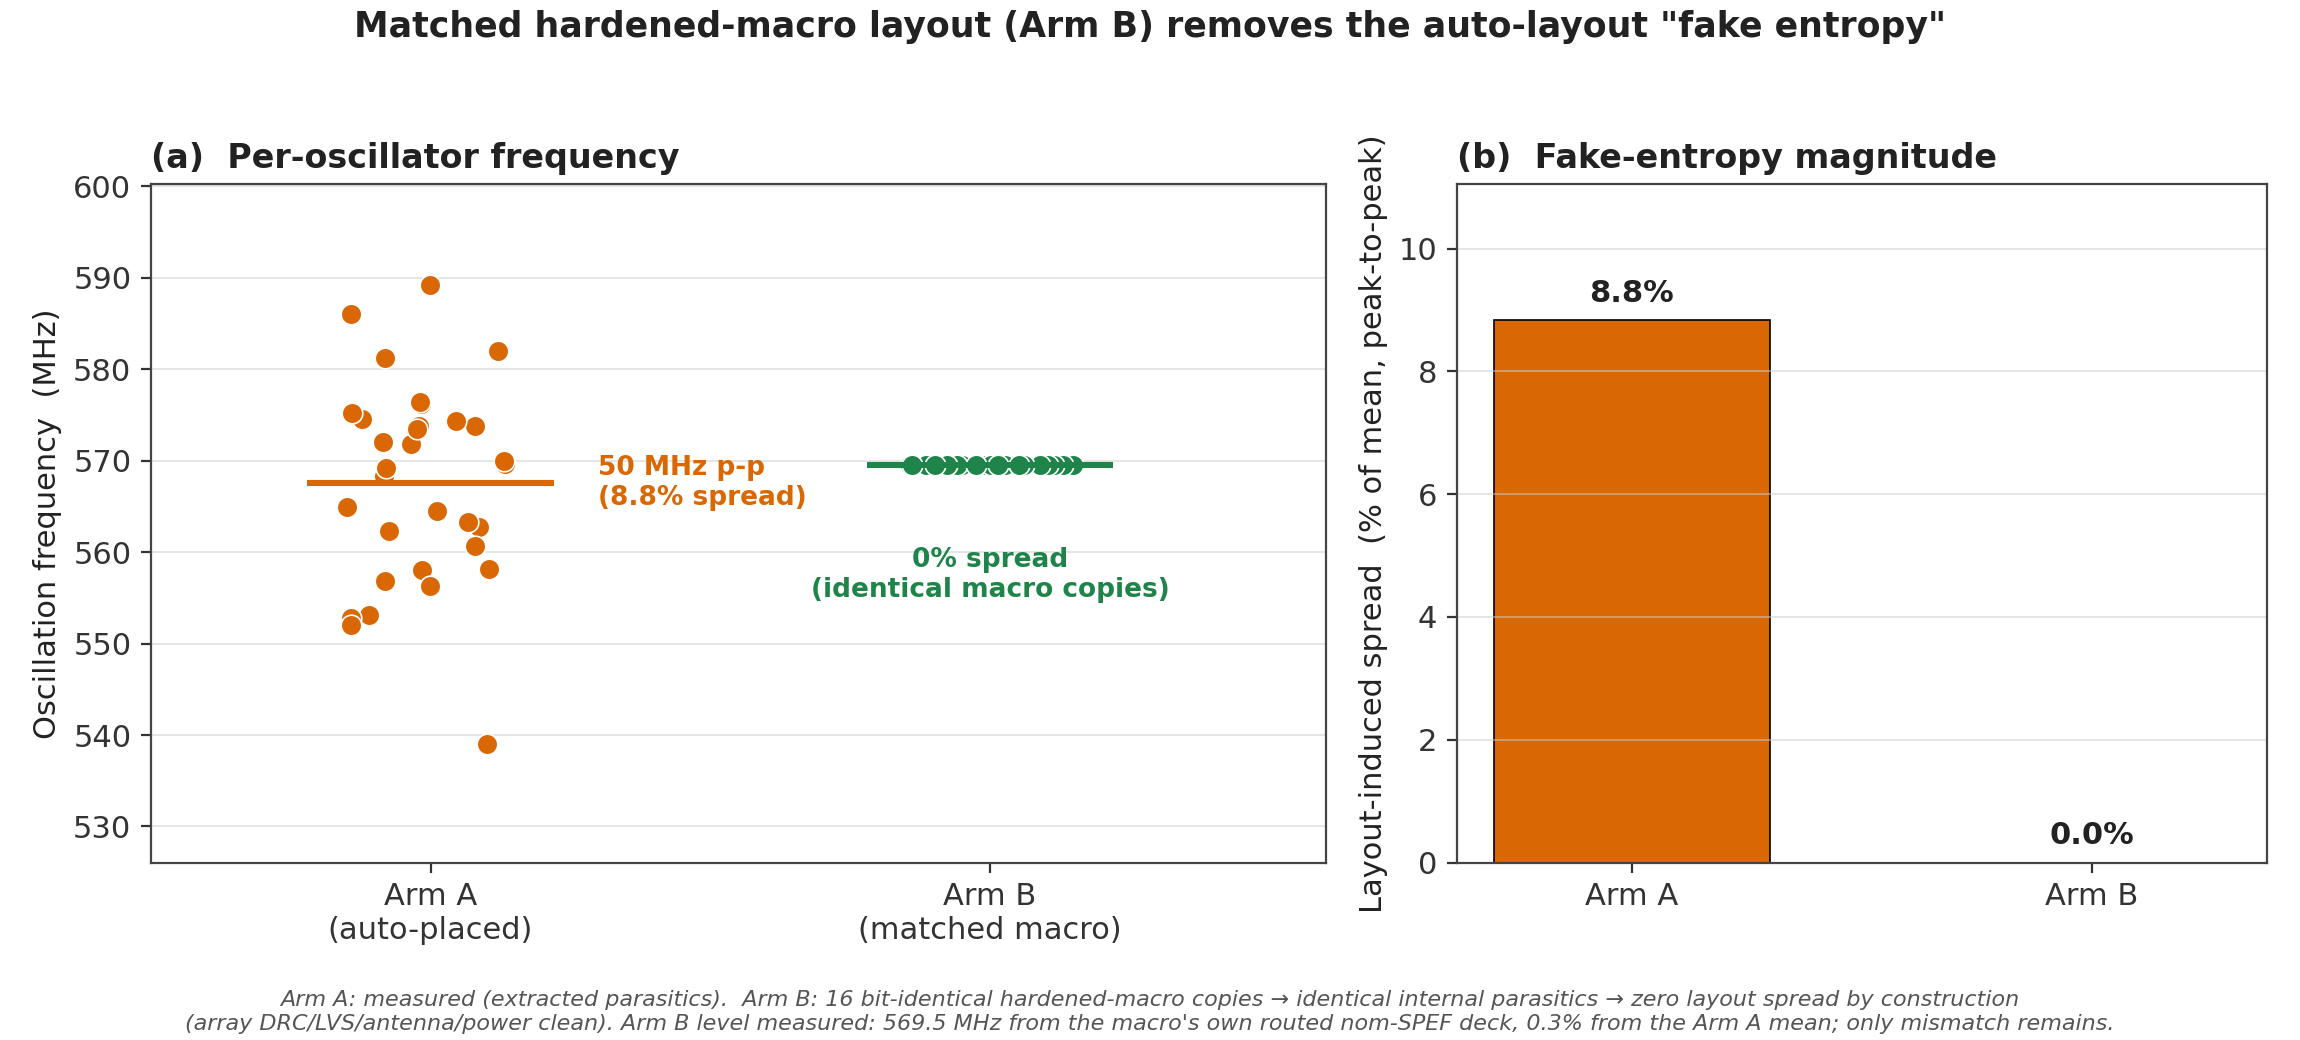
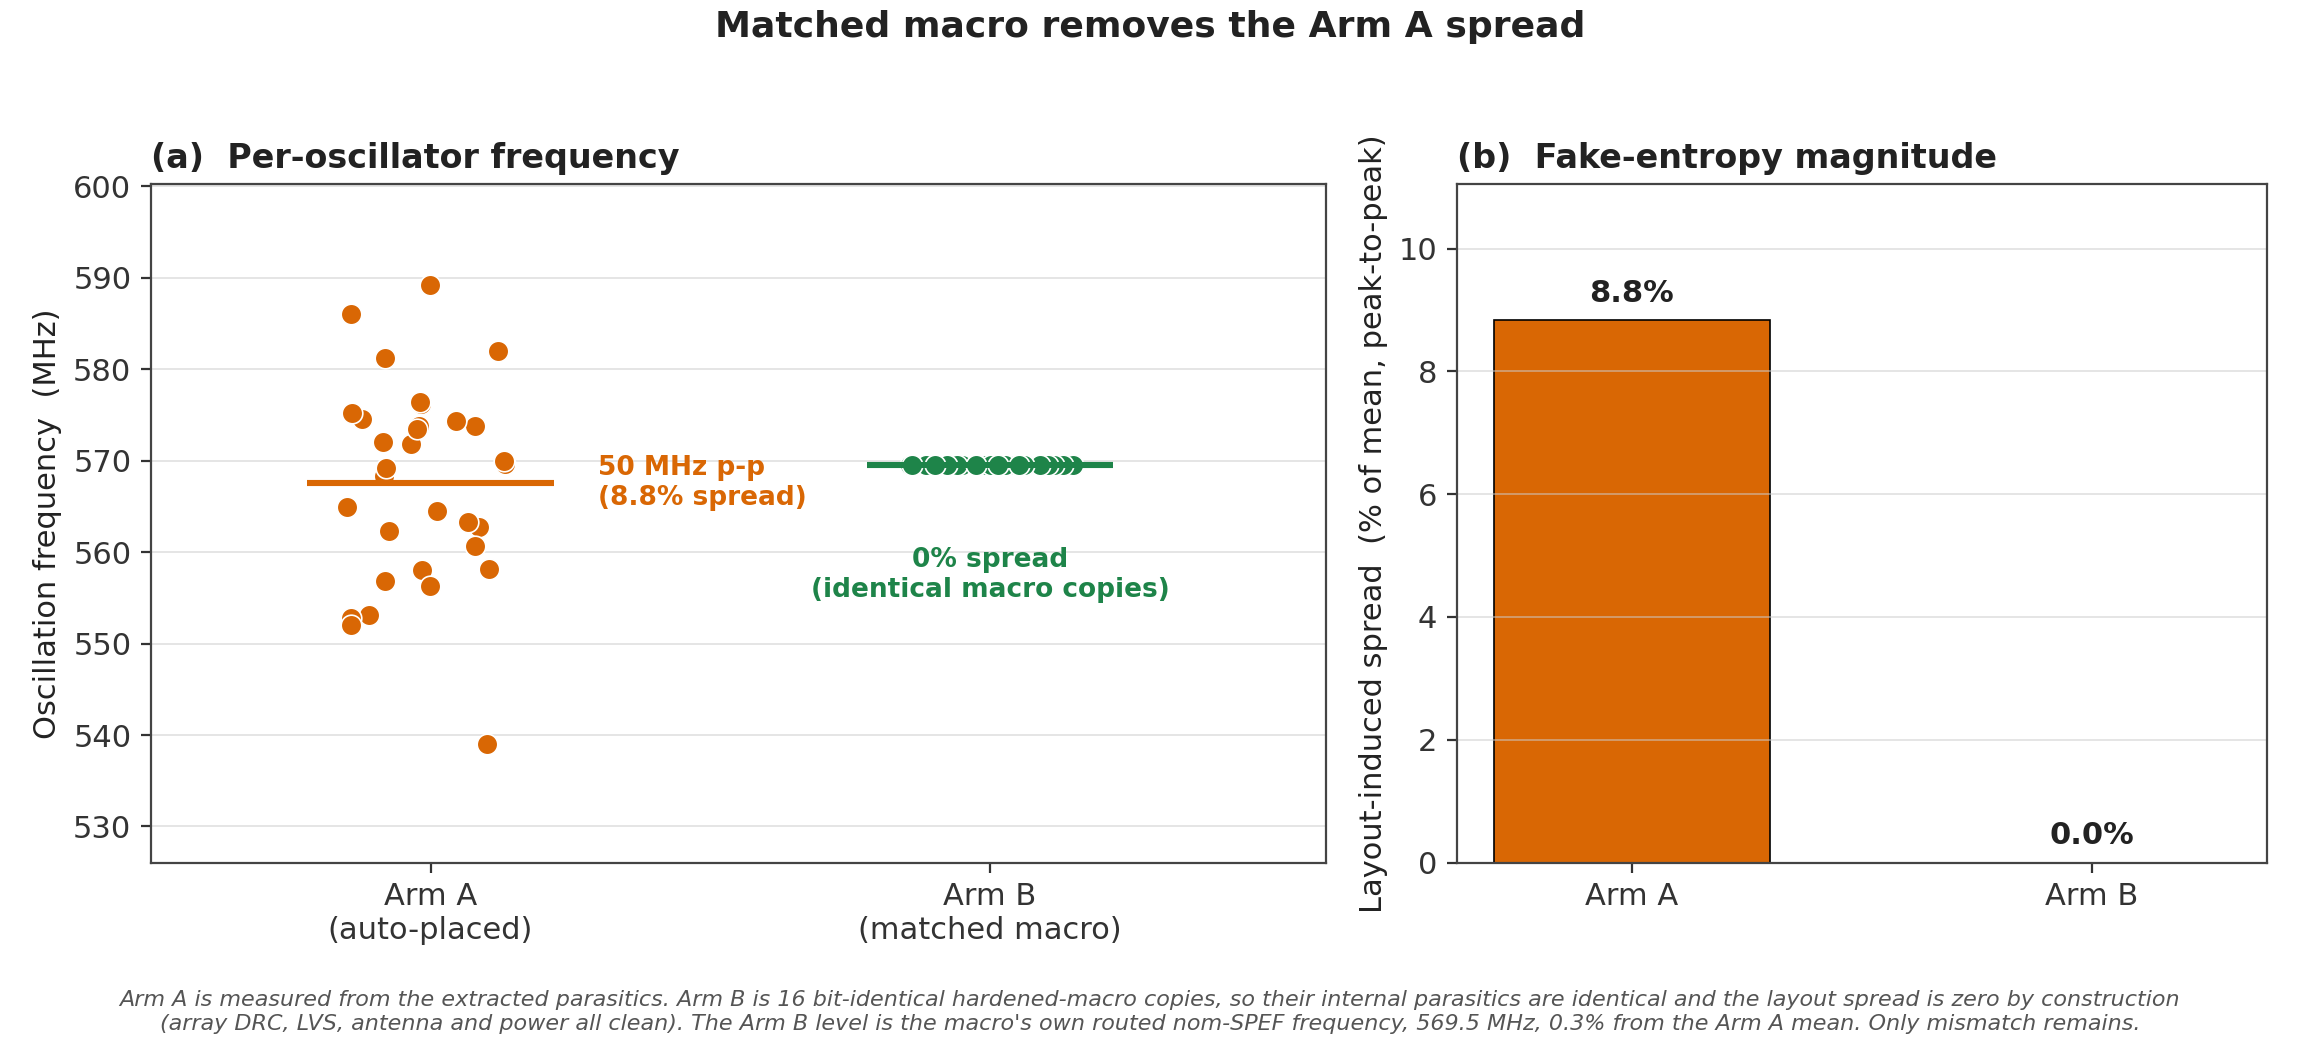
rebuilt paper

Changed region(s): [[0.0617, 0.9538, 0.957, 1.0], [0.1543, 0.0, 0.8335, 0.0615]]

diff --git a/sim/spice/gono/make_figures.py b/sim/spice/gono/make_figures.py
@@ -68,7 +68,7 @@ axL.plot(xf, [a + b*v for v in xf], "--", color=RED, lw=2.0, zorder=2,
 axL.scatter(cap, f, s=60, c=BLUE, edgecolor="white", linewidth=0.7, zorder=3)
 axL.set_xlabel("Extracted ring capacitance per oscillator  (fF)")
 axL.set_ylabel("Oscillation frequency  (MHz)")
-axL.set_title("(a)  Mechanism: routing capacitance sets frequency",
+axL.set_title("(a)  Frequency versus extracted ring capacitance",
               loc="left", fontweight="bold")
 axL.legend(loc="upper right", fontsize=9)
 axL.margins(x=0.05)
@@ -83,13 +83,12 @@ axR.set_title("(b)  Spatial map of oscillator frequency",
 cb = fig.colorbar(sc, ax=axR, pad=0.02); cb.set_label("Frequency  (MHz)")
 axR.margins(0.08)
 
-fig.suptitle("Automated layout (Arm A) injects a deterministic, layout-locked "
-             "frequency spread across 32 identical oscillators",
-             fontsize=12.5, fontweight="bold", y=0.99)
+fig.suptitle("Arm A: the routing sets each oscillator's frequency",
+             fontsize=13, fontweight="bold", y=0.99)
 fig.text(0.5, 0.005,
-         f"sky130 / TinyTapeout · OpenROAD-extracted parasitics (nom corner) · "
-         f"spread {ptp:.0f} MHz peak-to-peak ({100*ptp/mean:.1f}% of mean), "
-         f"std {100*std/mean:.1f}%  ·  identical logic, different routing",
+         f"sky130 TinyTapeout, OpenROAD-extracted parasitics at the nominal corner. "
+         f"Spread {ptp:.0f} MHz peak-to-peak ({100*ptp/mean:.1f}% of mean), "
+         f"std {100*std/mean:.1f}%. Same logic, different routing.",
          ha="center", fontsize=8.5, color="#555555", style="italic")
 fig.tight_layout(rect=[0, 0.03, 1, 0.96])
 fig.savefig(os.path.join(HERE, "ro_gono.png"))
@@ -129,14 +128,14 @@ for rect, v in zip(bars, [100*ptp/mean, 0.0]):
              ha="center", va="bottom", fontsize=11, fontweight="bold")
 axR.grid(axis="x", alpha=0)
 
-fig.suptitle("Matched hardened-macro layout (Arm B) removes the auto-layout "
-             '"fake entropy"', fontsize=12.5, fontweight="bold", y=0.99)
+fig.suptitle("Matched macro removes the Arm A spread",
+             fontsize=13, fontweight="bold", y=0.99)
 fig.text(0.5, 0.01,
-         "Arm A: measured (extracted parasitics).  Arm B: 16 bit-identical "
-         "hardened-macro copies → identical internal parasitics → zero layout "
-         "spread by construction\n(array DRC/LVS/antenna/power clean). Arm B "
-         "level measured: 569.5 MHz from the macro's own routed nom-SPEF deck, "
-         "0.3% from the Arm A mean; only mismatch remains.",
+         "Arm A is measured from the extracted parasitics. Arm B is 16 bit-identical "
+         "hardened-macro copies, so their internal parasitics are identical and the "
+         "layout spread is zero by construction\n(array DRC, LVS, antenna and power all clean). "
+         "The Arm B level is the macro's own routed nom-SPEF frequency, 569.5 MHz, "
+         "0.3% from the Arm A mean. Only mismatch remains.",
          ha="center", fontsize=8.0, color="#555555", style="italic")
 fig.tight_layout(rect=[0, 0.06, 1, 0.96])
 fig.savefig(os.path.join(HERE, "armB_prediction.png"))

diff --git a/sim/spice/gono/make_dualarm_figure.py b/sim/spice/gono/make_dualarm_figure.py
@@ -43,13 +43,13 @@ for rect, v in zip(bars, [100*ptp/mean, 0.0]):
     axR.text(rect.get_x()+rect.get_width()/2, v+0.12, f"{v:.1f}%",
              ha="center", va="bottom", fontsize=11, fontweight="bold")
 
-fig.suptitle("The submitted two-arm chip: auto-placed arm spreads, matched arm does not",
+fig.suptitle("The submitted chip: Arm A spreads, Arm B does not",
              fontsize=12.5, fontweight="bold", y=0.99)
 fig.text(0.5, 0.01,
          "Both arms from ONE routed 2x2-tile build. Arm A: 16 auto-placed oscillators, extracted parasitics, "
          "r = -0.999 against ring capacitance.\nArm B: 16 bit-identical hardened-macro copies at 569.5 MHz "
-         "(macro nom-SPEF). Note Arm A's pattern differs from the single-arm build (5.4% vs 8.8%): "
-         "each flow run mints a new fingerprint.",
+         "(macro nom-SPEF). Arm A's pattern differs from the single-arm build (5.4% vs 8.8%): "
+         "each flow run creates a new pattern.",
          ha="center", fontsize=8.0, color="#555555", style="italic")
 fig.tight_layout(rect=[0, 0.06, 1, 0.96])
 fig.savefig(os.path.join(HERE, "dualarm_gono.png"))
